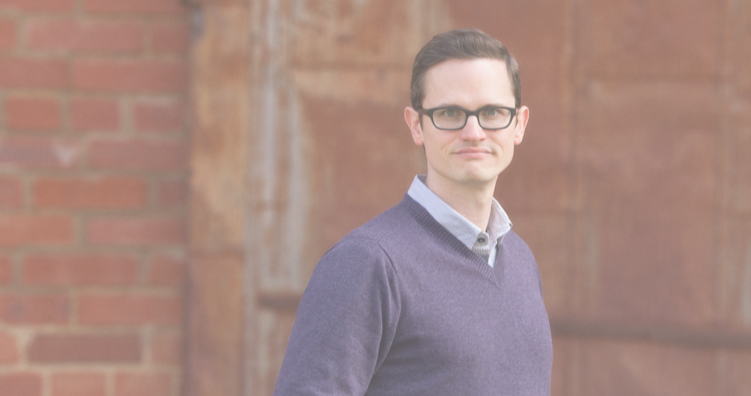
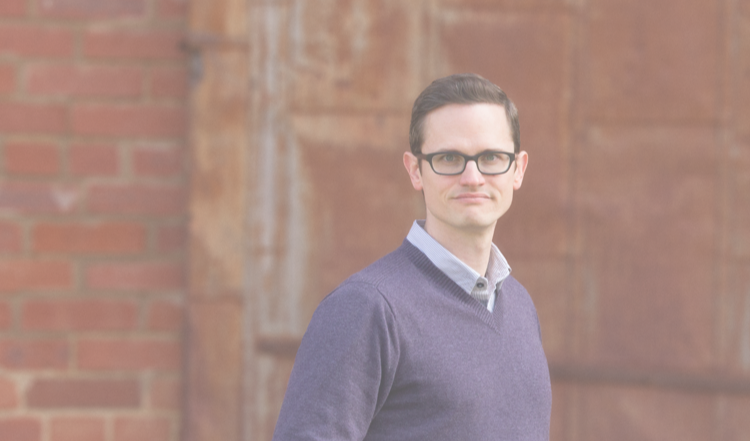
Toggle header

diff --git a/css/style.css b/css/style.css
@@ -1,3 +1,3 @@
-@import url("//hello.myfonts.net/count/32f709");@font-face{font-family:'MuseoSlab';font-weight:normal;font-style:normal;src:url("../fonts/32F709_0_0.eot");src:url("../fonts/32F709_0_0.eot?#iefix") format("embedded-opentype"),url("../fonts/32F709_0_0.woff2") format("woff2"),url("../fonts/32F709_0_0.woff") format("woff"),url("../fonts/32F709_0_0.ttf") format("truetype")}@font-face{font-family:'MuseoSlab';font-weight:normal;font-style:italic;src:url("../fonts/32F709_1_0.eot");src:url("../fonts/32F709_1_0.eot?#iefix") format("embedded-opentype"),url("../fonts/32F709_1_0.woff2") format("woff2"),url("../fonts/32F709_1_0.woff") format("woff"),url("../fonts/32F709_1_0.ttf") format("truetype")}html{box-sizing:border-box}*,*::before,*::after{box-sizing:inherit}body,p,ul,h1,h2,h3,h4,h5,h6{margin:0;padding:0}ul{padding-left:1.25rem}img{width:100%}p,ul{margin-top:1.375rem}h2+ul{margin-top:0}html{font-family:"Helvetica Neue",Helvetica,Arial,sans-serif;font-weight:400;line-height:1.375;color:#06064F;font-size:16px;-webkit-hyphens:auto;-moz-hyphens:auto;-ms-hyphens:auto;hyphens:auto}@media screen and (min-width: 25em){html{font-size:calc( 100% + (20 - 16) * (100vw - 400px) / (1440 - 400))}}h1,h2,h3,h4,h5,h6{font-family:"MuseoSlab",sans-serif;font-weight:700;font-style:normal;line-height:1.1;letter-spacing:-0.01em}h1{margin-top:0;text-align:center}a{color:#2E30EB}a:visited{color:#B41D04}a:hover{color:#FF4017}a[target="_blank"]::after{content:"(link opens in a new window)";margin-left:0.2em}.page-header{background-color:#25396C;color:#ffffff;padding:1.25rem 0}.page-header__logo{width:30%;margin-left:auto;margin-right:auto;display:block}.page-footer{margin:0 1.25rem;padding:1.375rem 0}.nav__links{list-style-type:none;padding-left:0;margin-left:0}.nav__links a{color:inherit;text-decoration:none;display:block;padding:0.5em 1.25rem;font-size:2rem;font-family:"MuseoSlab"}.nav__links a:hover,.nav__links a .is-active{background-color:#fff;color:#06064F;border-right:solid 0.5em #06064F}.section{margin:0 1.25rem;border-bottom:1px solid #7D7D9C;padding-bottom:2.75rem}.section__list>li{padding-top:1.375rem}.section__title{font-size:2rem;margin-top:2.5rem}.section__secondary-heading{font-size:0.875rem;line-height:1.571428571428571;font-family:"Helvetica Neue",Helvetica,Arial,sans-serif;font-weight:normal;text-transform:uppercase;letter-spacing:0.13em;margin-top:1.0625rem;margin-bottom:-1.0625rem;color:#7D7D9C}.section__primary-heading{font-size:1.125rem;line-height:1.222222222222222;margin-top:1.375rem}.section__primary-heading em{white-space:nowrap}.section__img{width:calc(100% + 2.5rem);height:auto;margin:2.75rem -1.25rem 0}.section--about{background-image:url(../images/rb-headshot-sm@2x.png);background-color:#633730;background-repeat:no-repeat;background-size:cover;background-position:50% 50%;color:#ffffff;margin:0;padding:5.5rem 1.25rem 2.75rem}.section--about span{display:block}.section--projects>ul li:first-child .section__img{margin-top:-0.5625rem}p+.section__secondary-heading,ul+.section__secondary-heading{padding-top:1.375rem}.u-unstyled-list{list-style-type:none;padding-left:0;margin-left:0}.u-sr-only{clip:rect(1px, 1px, 1px, 1px);height:1px;width:1px;overflow:hidden;position:absolute !important}
+@import url("//hello.myfonts.net/count/32f709");@font-face{font-family:'MuseoSlab';font-weight:normal;font-style:normal;src:url("../fonts/32F709_0_0.eot");src:url("../fonts/32F709_0_0.eot?#iefix") format("embedded-opentype"),url("../fonts/32F709_0_0.woff2") format("woff2"),url("../fonts/32F709_0_0.woff") format("woff"),url("../fonts/32F709_0_0.ttf") format("truetype")}@font-face{font-family:'MuseoSlab';font-weight:normal;font-style:italic;src:url("../fonts/32F709_1_0.eot");src:url("../fonts/32F709_1_0.eot?#iefix") format("embedded-opentype"),url("../fonts/32F709_1_0.woff2") format("woff2"),url("../fonts/32F709_1_0.woff") format("woff"),url("../fonts/32F709_1_0.ttf") format("truetype")}html{box-sizing:border-box}*,*::before,*::after{box-sizing:inherit}body,p,ul,h1,h2,h3,h4,h5,h6{margin:0;padding:0}ul{padding-left:1.25rem}img{width:100%}p,ul{margin-top:1.375rem}h2+ul{margin-top:0}html{font-family:"Helvetica Neue",Helvetica,Arial,sans-serif;font-weight:400;line-height:1.375;color:#06064F;font-size:16px;-webkit-hyphens:auto;-moz-hyphens:auto;-ms-hyphens:auto;hyphens:auto}@media screen and (min-width: 25em){html{font-size:calc( 100% + (20 - 16) * (100vw - 400px) / (1440 - 400))}}h1,h2,h3,h4,h5,h6{font-family:"MuseoSlab",sans-serif;font-weight:700;font-style:normal;line-height:1.1;letter-spacing:-0.01em}h1{margin-top:0;text-align:center}a{color:#2E30EB}a:visited{color:#B41D04}a:hover{color:#FF4017}a[target="_blank"]::after{content:"(link opens in a new window)";margin-left:0.2em}.page-header{background-color:#25396C;color:#ffffff;padding:1.25rem 0;overflow-y:auto}.page-header__logo{width:5rem;margin-left:auto;margin-right:auto;display:block}.page-header__menu-toggle{position:absolute;top:0;right:0}.js .page-header{position:fixed;width:100%;left:0;top:0;bottom:0}.js .page-header.is-collapsed{position:absolute;height:4.25rem;left:0;right:0;overflow:hidden;background-color:transparent}.page-footer{margin:0 1.25rem;padding:1.375rem 0}.nav__links{list-style-type:none;padding-left:0;margin-left:0}.nav__links a{color:inherit;text-decoration:none;display:block;padding:0.5em 1.25rem;font-size:2rem;font-family:"MuseoSlab"}.nav__links a:hover,.nav__links a .is-active{background-color:#fff;color:#06064F;border-right:solid 0.5em #06064F}.section{margin:0 1.25rem;border-bottom:1px solid #7D7D9C;padding:2.5rem 0 2.75rem}.section__list>li{padding-top:1.375rem}.section__title{font-size:2rem}.section__secondary-heading{font-size:0.875rem;line-height:1.571428571428571;font-family:"Helvetica Neue",Helvetica,Arial,sans-serif;font-weight:normal;text-transform:uppercase;letter-spacing:0.13em;margin-top:1.0625rem;margin-bottom:-1.0625rem;color:#7D7D9C}.section__primary-heading{font-size:1.125rem;line-height:1.222222222222222;margin-top:1.375rem}.section__primary-heading em{white-space:nowrap}.section__img{width:calc(100% + 2.5rem);height:auto;margin:2.75rem -1.25rem 0}.section--about{background-image:url(../images/rb-headshot-sm@2x.png);background-color:#633730;background-repeat:no-repeat;background-size:cover;background-position:50% 50%;color:#ffffff;margin:0;padding:10.8125rem 1.25rem 2.75rem}.section--about span{display:block}.section--projects>ul li:first-child .section__img{margin-top:-0.5625rem}p+.section__secondary-heading,ul+.section__secondary-heading{padding-top:1.375rem}.u-unstyled-list{list-style-type:none;padding-left:0;margin-left:0}.u-sr-only{clip:rect(1px, 1px, 1px, 1px);height:1px;width:1px;overflow:hidden;position:absolute !important}
 
 /*# sourceMappingURL=style.css.map */

diff --git a/index.html b/index.html
@@ -9,7 +9,7 @@
   <link rel="stylesheet" href="css/style.css">
 </head>
 <body>
-  <header class="page-header">
+  <header class="page-header js-page-header is-collapsed">
     <img class="page-header__logo" src="images/rb-stacked.svg" alt="Ryan Boone">
     <h1 class="u-sr-only">Ryan Boone</h1>
     <nav class="nav">
@@ -21,17 +21,20 @@
         <li><a href="#contact">Contact</a></li>
       </ul>
     </nav>
+    <button class="page-header__menu-toggle js-menu-toggle">Menu</button>
   </header>
 
   <main>
-
+    
+    <a id="about" rel="bookmark"></a>
     <section class="section section--about">
-      <h2 class="section__title" id="about"><span>Hello.</span> <span>I'm&nbsp;Ryan.</span></h2>
+      <h2 class="section__title"><span>Hello.</span> <span>I'm&nbsp;Ryan.</span></h2>
       <p>I am a Fort Worth-based designer and developer in search of opportunities to grow and do meaningful work. I am currently obesessed with all things JavaScript, stupid trivia, complexity theory, and <cite>Stranger Things</cite>.</p>
     </section>
 
+    <a id="experience" rel="bookmark"></a>
     <section class="section">
-      <h2 class="section__title" id="experience">Experience</h2>
+      <h2 class="section__title">Experience</h2>
       <ul class="section__list u-unstyled-list">
         <li>
           <h3 class="section__secondary-heading">November 2006&ndash;Present</h3>
@@ -59,8 +62,8 @@
       </ul>
     </section>
 
-    <section class="section section--projects">
-      <h2 class="section__title" id="projects">Side Projects</h2>
+    <section class="section section--projects" id="projects">
+      <h2 class="section__title">Side Projects</h2>
       <ul class="section__list u-unstyled-list">
         <li>
           <img class="section__img" src="images/side-project-placeholder.png" alt="">
@@ -129,8 +132,9 @@
       </ul>
     </section>
 
+    <a id="education" rel="bookmark"></a>
     <section class="section">
-      <h2 class="section__title" id="education">Education</h2>
+      <h2 class="section__title">Education</h2>
       <ul class="section__list u-unstyled-list">
         <li>
           <h3 class="section__primary-heading"><a href="https://cs50.harvard.edu" target="_blank">CS50 (HarvardX)</a></h3>
@@ -189,8 +193,9 @@
       </ul>
     </section>
 
+    <a id="contact" rel="bookmark"></a>
     <section class="section">
-      <h2 class="section__title" id="contact">Contact</h2>
+      <h2 class="section__title">Contact</h2>
       <!-- Contact form from form spree -->
       <ul>
         <li><a href="https://github.com/falldowngoboone" target="_blank">My Github profile</a></li>

diff --git a/js/page.js b/js/page.js
@@ -1,8 +1,24 @@
 onload = function () {
+  var pageHeader = document.querySelector('.js-page-header'),
+      menuToggle = document.querySelector('.js-menu-toggle')
+
   // js class for styles relying on js functionality
   document.documentElement.classList.add('js')
 
   // make sure copyright is always up-to-date
   document.querySelector('#copyright-date')
     .innerText = (new Date()).getFullYear()
+
+  menuToggle.addEventListener('click', toggleMenuOpen)
+  pageHeader.addEventListener('click', function (e) {
+    if (e.target.nodeName === 'A' ) {
+      toggleMenuOpen()
+    }
+  })
+
+  function toggleMenuOpen () {
+    pageHeader.classList.contains('is-collapsed') ?
+      pageHeader.classList.remove('is-collapsed') :
+      pageHeader.classList.add('is-collapsed')
+  }
 }

diff --git a/css/scss/_page-header.scss b/css/scss/_page-header.scss
@@ -5,12 +5,36 @@
   background-color: #25396C;
   color: #ffffff;
   padding: 1.25rem 0;
+  // height: 100vh;
+  overflow-y: auto;
 }
 
 .page-header__logo {
-  width: 30%;
+  width: 5rem;
   margin-left: auto;
   margin-right: auto;
-  // margin-bottom: 2rem;
   display: block;
+}
+
+.page-header__menu-toggle {
+  position: absolute;
+  top: 0;
+  right: 0;
+}
+
+.js .page-header {
+  position: fixed;
+  width: 100%;
+  left: 0;
+  top: 0;
+  bottom: 0;
+}
+
+.js .page-header.is-collapsed {
+  position: absolute;
+  height: 4.25rem;
+  left: 0;
+  right: 0;
+  overflow: hidden;
+  background-color: transparent;
 }

diff --git a/css/scss/_section.scss b/css/scss/_section.scss
@@ -1,7 +1,7 @@
 .section {
   margin: 0 1.25rem;
   border-bottom: 1px solid $secondary-color;
-  padding-bottom: 2.75rem;
+  padding: 2.5rem 0 2.75rem;
 }
 
 .section__list > li {
@@ -10,7 +10,6 @@
 
 .section__title {
   font-size: 2rem;
-  margin-top: 2.5rem;
 }
 
 .section__secondary-heading {
@@ -51,7 +50,7 @@
   color: #ffffff;
 
   margin: 0;
-  padding: 5.5rem 1.25rem 2.75rem;
+  padding: 10.8125rem 1.25rem 2.75rem;
 
   span {
     display: block;
